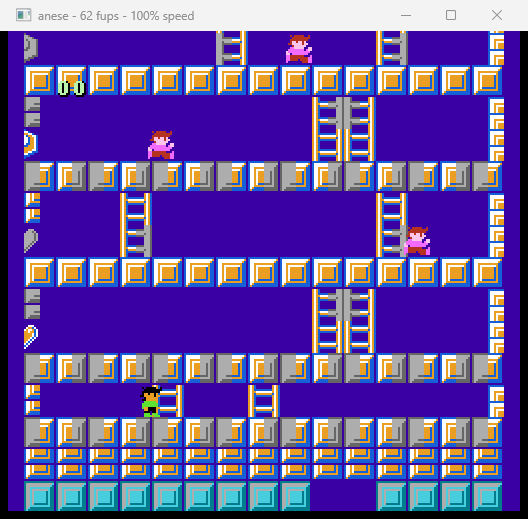
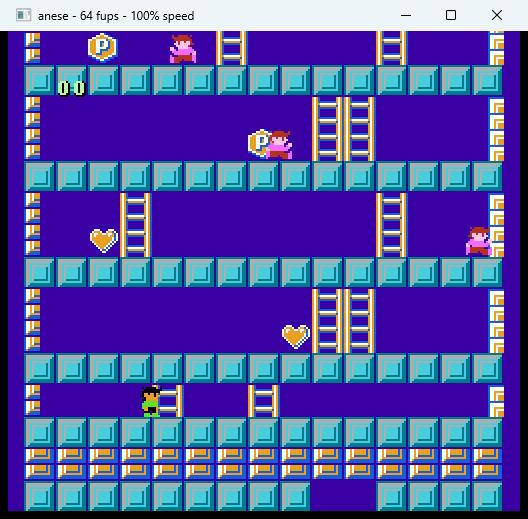
Fix scrambled background tiles in climber sample (#289)
* Fix scrambled background tiles in climber sample (#277)

The transpiler's HandleStelemI1 didn't handle array-element-based indices.
When C# code uses buf[arr2[f] * N + M] = value, the handler treated arr2
as a scalar index variable, emitting LDX arr2_addr (loading arr2[0])
instead of properly computing arr2[f] * N + M.

This caused all item tiles in the climber sample to render at the left
wall (position 0) instead of at their random floor positions, because
floor_objpos[f] was always read as floor_objpos[0].

The fix adds a new detection path in HandleStelemI1 that recognizes when
the index local is an array (ArraySize > 0), parses the full index
expression (sub-index, ldelem, mul, add), and emits correct 6502 code:
LDX f; LDA arr,X; ASL; [CLC; ADC #M]; STA TEMP; ... LDX TEMP; STA buf,X

Also handles the case where the compiler constant-folds the sub-index.

* Fix wall tiles: revert alternating pattern to match original

Reverts the wall tile alternating change — the original 8bitworkshop
climber.c uses the same constant tiles (F5 left, F4 right) for all
wall rows, which is what the dotnes port originally had.

* Update climber screenshot and GIF with fixed tiles

---------

diff --git a/src/dotnes.tasks/Utilities/IL2NESWriter.ArrayHandling.cs b/src/dotnes.tasks/Utilities/IL2NESWriter.ArrayHandling.cs
@@ -671,6 +671,13 @@ partial class IL2NESWriter
         int indexLocalAddend = -1; // For index arithmetic like buf[offset + j]
         int targetArrayILOffset = -1;
 
+        // Array-element index: buf[arr2[j] * N + M] = value
+        int indexArrayLocalIdx = -1;  // The array used in the index expression (arr2)
+        int indexSubLocalIdx = -1;    // The sub-index into that array (j) — local variable
+        int indexSubConstant = -1;    // The sub-index as a constant (when compiler folds j)
+        int indexArrayMul = 0;        // Multiplier (N)
+        int indexArrayAdd = 0;        // Addend (M)
+
         // Collect the value expression info
 
         // Walk backward from stelem to find all components
@@ -752,9 +759,68 @@ partial class IL2NESWriter
                         {
                             targetIndexLocalIdx = nextLocIdx.Value;
                             valueStart = i + 2;
+
+                            // Check if the "index" local is actually an array.
+                            // Pattern: buf[arr2[j] * N + M] = value
+                            // IL: ldloc arr2, ldloc j, ldelem.u1, [ldc N, mul], [ldc M, add], [conv]
+                            if (Locals.TryGetValue(targetIndexLocalIdx, out var indexAsArray) && indexAsArray.ArraySize > 0)
+                            {
+                                indexArrayLocalIdx = targetIndexLocalIdx;
+                                targetIndexLocalIdx = -1; // not a simple scalar index
+
+                                int scan = valueStart;
+                                // ldloc j (the sub-index) — or ldc N if compiler constant-folded
+                                if (scan < Index)
+                                {
+                                    var subIdx = GetLdlocIndex(Instructions[scan]);
+                                    if (subIdx != null)
+                                    {
+                                        indexSubLocalIdx = subIdx.Value;
+                                        scan++;
+                                    }
+                                    else
+                                    {
+                                        int? subConst = GetLdcValue(Instructions[scan]);
+                                        if (subConst != null)
+                                        {
+                                            indexSubConstant = subConst.Value;
+                                            scan++;
+                                        }
+                                    }
+                                }
+                                // ldelem.u1
+                                if (scan < Index && Instructions[scan].OpCode == ILOpCode.Ldelem_u1)
+                                    scan++;
+                                // [ldc N, mul]
+                                if (scan + 1 < Index)
+                                {
+                                    int? mulConst = GetLdcValue(Instructions[scan]);
+                                    if (mulConst != null && Instructions[scan + 1].OpCode == ILOpCode.Mul)
+                                    {
+                                        indexArrayMul = mulConst.Value;
+                                        scan += 2;
+                                    }
+                                }
+                                // [ldc M, add]
+                                if (scan + 1 < Index)
+                                {
+                                    int? addConst = GetLdcValue(Instructions[scan]);
+                                    if (addConst != null && Instructions[scan + 1].OpCode == ILOpCode.Add)
+                                    {
+                                        indexArrayAdd = addConst.Value;
+                                        scan += 2;
+                                    }
+                                }
+                                // [conv.u1/conv.u2/conv.i1]
+                                if (scan < Index && Instructions[scan].OpCode
+                                    is ILOpCode.Conv_u1 or ILOpCode.Conv_u2 or ILOpCode.Conv_i1)
+                                    scan++;
+
+                                valueStart = scan;
+                            }
                             // Check for index arithmetic: ldloc idx, ldc N, add, [conv]
                             // Pattern: buf[(byte)(col + 1)] → ldloc col, ldc 1, add, conv.u1
-                            if (valueStart + 1 < Index)
+                            else if (valueStart + 1 < Index)
                             {
                                 int? addend = GetLdcValue(Instructions[valueStart]);
                                 if (addend != null && Instructions[valueStart + 1].OpCode == ILOpCode.Add)
@@ -819,6 +885,109 @@ partial class IL2NESWriter
 
         // Resolve the target array Local from either local variable or static field
         Local resolvedTargetArray = targetArrayLocalIdx >= 0 ? Locals[targetArrayLocalIdx] : targetArrayFromField!;
+
+        // Handle array-element index: buf[arr2[j] * N + M] = value
+        // Pattern: floor_objpos[f] * 2, floor_objpos[f] * 2 + 1, etc.
+        if (indexArrayLocalIdx >= 0 && resolvedTargetArray.Address is not null)
+        {
+            var indexArray = Locals[indexArrayLocalIdx];
+            if (indexArray.Address is null || (indexSubLocalIdx < 0 && indexSubConstant < 0))
+            {
+                _runtimeValueInA = false;
+                _savedRuntimeToTemp = false;
+                _lastLoadedLocalIndex = null;
+                return;
+            }
+
+            // Remove previously emitted instructions
+            if (_blockCountAtILOffset.TryGetValue(targetArrayILOffset, out int blockCountArr))
+            {
+                int instrToRemove = GetBufferedBlockCount() - blockCountArr;
+                if (instrToRemove > 0)
+                    RemoveLastInstructions(instrToRemove);
+            }
+
+            // Analyze the value expression to determine what to store
+            int? valueConst = null;
+            int valueLocIdx = -1;
+            bool valHasAdd = false;
+            int valAddValue = 0;
+            for (int i = valueStart; i < Index; i++)
+            {
+                var il = Instructions[i];
+                int? val = GetLdcValue(il);
+                if (val != null)
+                {
+                    if (i + 1 < Index && Instructions[i + 1].OpCode == ILOpCode.Add)
+                        valAddValue = val.Value;
+                    else
+                        valueConst = val;
+                }
+                if (il.OpCode == ILOpCode.Add)
+                    valHasAdd = true;
+                var locIdx = GetLdlocIndex(il);
+                if (locIdx != null)
+                {
+                    // Check it's not part of an array ldelem pattern
+                    bool isLdelemPart = i + 1 < Index && Instructions[i + 1].OpCode == ILOpCode.Ldelem_u1;
+                    if (!isLdelemPart)
+                        valueLocIdx = locIdx.Value;
+                }
+            }
+
+            // Compute the index: arr2[j] * N + M
+            if (indexSubLocalIdx >= 0)
+            {
+                var subLocal = Locals[indexSubLocalIdx];
+                Emit(Opcode.LDX, AddressMode.Absolute, (ushort)subLocal.Address!);
+                Emit(Opcode.LDA, AddressMode.AbsoluteX, (ushort)indexArray.Address!);
+            }
+            else
+            {
+                // Constant sub-index: load directly from arr2[constant]
+                Emit(Opcode.LDA, AddressMode.Absolute, (ushort)(indexArray.Address! + indexSubConstant));
+            }
+            Emit(Opcode.LDA, AddressMode.AbsoluteX, (ushort)indexArray.Address!);
+            if (indexArrayMul > 0)
+            {
+                int shifts = 0;
+                for (int v = indexArrayMul; v > 1; v >>= 1) shifts++;
+                for (int s = 0; s < shifts; s++)
+                    Emit(Opcode.ASL, AddressMode.Accumulator);
+            }
+            if (indexArrayAdd != 0)
+            {
+                Emit(Opcode.CLC, AddressMode.Implied);
+                Emit(Opcode.ADC, AddressMode.Immediate, checked((byte)indexArrayAdd));
+            }
+            Emit(Opcode.STA, AddressMode.ZeroPage, TEMP);
+
+            // Load the value to store
+            if (valueLocIdx >= 0)
+            {
+                var valueLoc = Locals[valueLocIdx];
+                Emit(Opcode.LDA, AddressMode.Absolute, (ushort)valueLoc.Address!);
+                if (valHasAdd && valAddValue != 0)
+                {
+                    Emit(Opcode.CLC, AddressMode.Implied);
+                    Emit(Opcode.ADC, AddressMode.Immediate, checked((byte)valAddValue));
+                }
+            }
+            else if (valueConst != null)
+            {
+                Emit(Opcode.LDA, AddressMode.Immediate, checked((byte)valueConst.Value));
+            }
+
+            // Store: LDX TEMP; STA buf,X
+            Emit(Opcode.LDX, AddressMode.ZeroPage, TEMP);
+            Emit(Opcode.STA, AddressMode.AbsoluteX, (ushort)resolvedTargetArray.Address);
+
+            _immediateInA = null;
+            _lastLoadedLocalIndex = null;
+            _runtimeValueInA = false;
+            _savedRuntimeToTemp = false;
+            return;
+        }
 
         // Handle expression-based index: buf[expr] = constValue
         // Pattern: call+and, call, etc. as index expression

diff --git a/src/dotnes.tests/RoslynTests.cs b/src/dotnes.tests/RoslynTests.cs
@@ -4332,4 +4332,53 @@ public class RoslynTests
         Assert.Contains("A92A", hex);    // LDA #42 — load value
         Assert.Contains("9D2603", hex);  // STA $0326,X — store to G.arr[X]
     }
+
+    [Fact]
+    public void StelemI1_ArrayElementIndex()
+    {
+        // Regression: In the climber sample, the pattern:
+        //   buf[(byte)(arr2[f] * 2)] = value;
+        //   buf[(byte)(arr2[f] * 2 + 1)] = value2;
+        // The transpiler treated arr2 as a scalar index variable, emitting
+        // LDX arr2_addr (loading arr2[0]) instead of LDX f; LDA arr2,X.
+        // The * 2 and + 1 arithmetic were also lost. Both tiles of each pair
+        // wrote to the same position (arr2[0]), making items appear at the
+        // wrong location.
+        var bytes = GetProgramBytes(
+            """
+            byte[] buf = new byte[30];
+            byte[] positions = new byte[4];
+            positions[0] = 3;
+            positions[1] = 5;
+            positions[2] = 7;
+            positions[3] = 9;
+            for (byte f = 0; f < 4; f++)
+            {
+                buf[(byte)(positions[f] * 2)] = (byte)(f + 1);
+                buf[(byte)(positions[f] * 2 + 1)] = (byte)(f + 3);
+            }
+            vram_adr(0x2000);
+            vram_write(buf);
+            ppu_on_all();
+            while (true) ;
+            """);
+
+        Assert.NotNull(bytes);
+        Assert.NotEmpty(bytes);
+
+        var hex = Convert.ToHexString(bytes);
+        _logger.WriteLine($"StelemI1_ArrayElementIndex hex: {hex}");
+
+        // STA $17 (85 17) — save computed index to TEMP
+        Assert.Contains("8517", hex);
+
+        // LDX $17 (A6 17) — reload index from TEMP
+        Assert.Contains("A617", hex);
+
+        // ASL + STA TEMP (first index: positions[f] * 2, no add)
+        Assert.Contains("0A8517", hex);
+
+        // ASL + CLC + ADC #1 (second index: positions[f] * 2 + 1)
+        Assert.Contains("0A186901", hex);
+    }
 }
